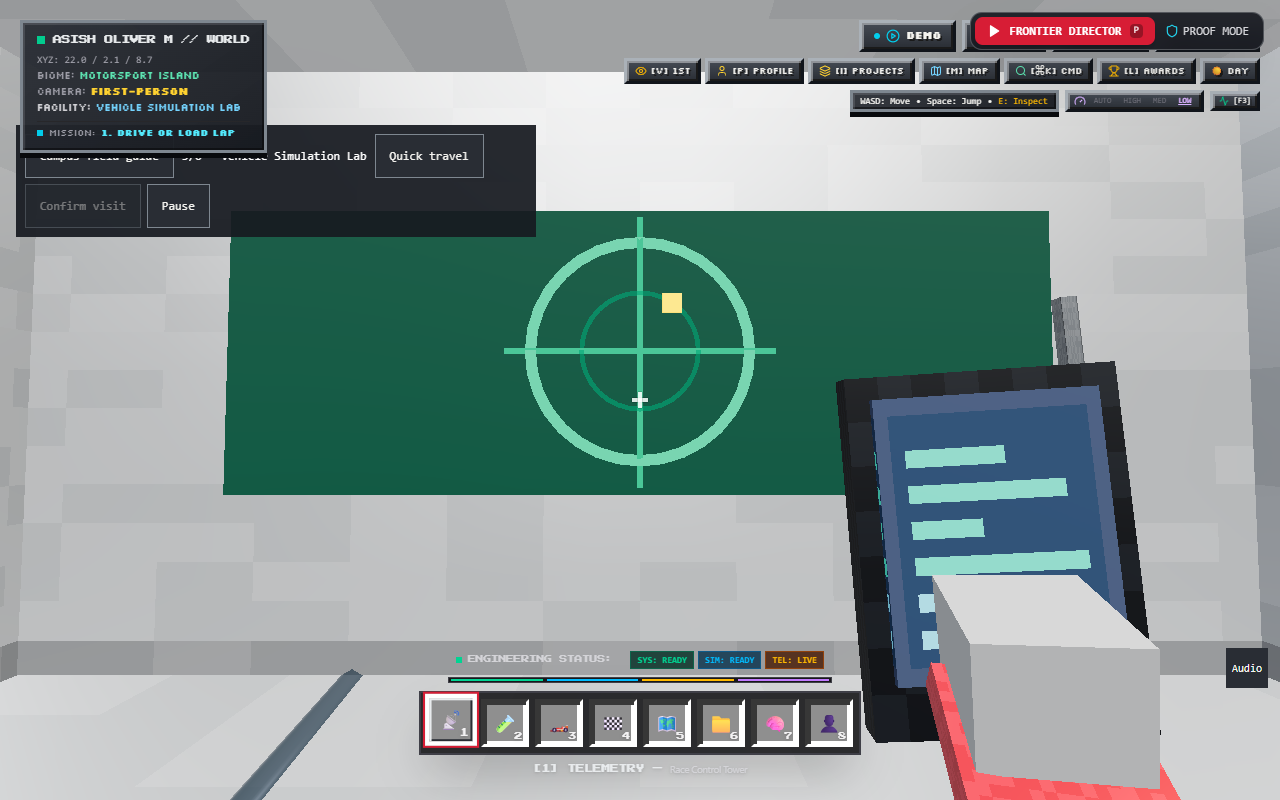
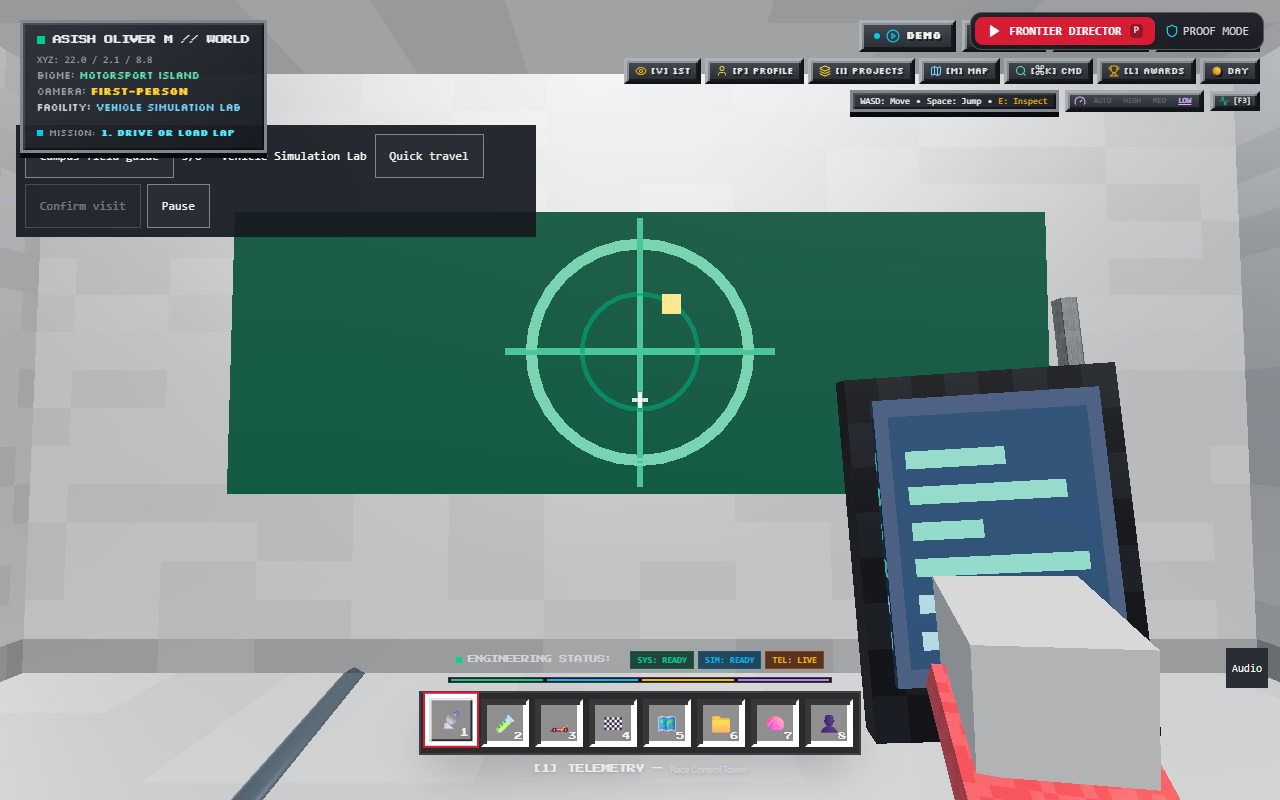
fix: buffer jump input and sync vertical position under variable frame rates

diff --git a/components/camera/FirstPersonPlayer.tsx b/components/camera/FirstPersonPlayer.tsx
@@ -143,6 +143,7 @@ export const FirstPersonPlayer: React.FC = () => {
     jump: false,
     sprint: false,
   });
+  const jumpRequested = useRef(false);
 
   const isPointerLocked = useRef(false);
 
@@ -229,6 +230,7 @@ export const FirstPersonPlayer: React.FC = () => {
           break;
         case "Space":
           keys.current.jump = true;
+          jumpRequested.current = true;
           break;
         case "ShiftLeft":
         case "ShiftRight":
@@ -465,11 +467,14 @@ export const FirstPersonPlayer: React.FC = () => {
       velocity.current.z = THREE.MathUtils.lerp(velocity.current.z, targetVelZ, accelFactor);
 
       // Jump & Gravity
-      if (isGrounded.current && (keys.current.jump || touchInput.jump)) {
+      const shouldJump = isGrounded.current && (jumpRequested.current || keys.current.jump || touchInput.jump);
+      if (shouldJump) {
+        jumpRequested.current = false;
         velocity.current.y = JUMP_VELOCITY;
         isGrounded.current = false;
         worldSound.playClick();
       } else if (!isGrounded.current) {
+        jumpRequested.current = false;
         velocity.current.y += GRAVITY * dt;
       }
 
@@ -568,7 +573,7 @@ export const FirstPersonPlayer: React.FC = () => {
 
     // Publish player position for HUD and minimap when moving or periodically
     hudClock.current += delta;
-    if (hudClock.current >= 0.15) {
+    if (hudClock.current >= 0.15 || !isGrounded.current) {
       hudClock.current = 0;
       setPlayerPosition([
         playerPos.current.x,
